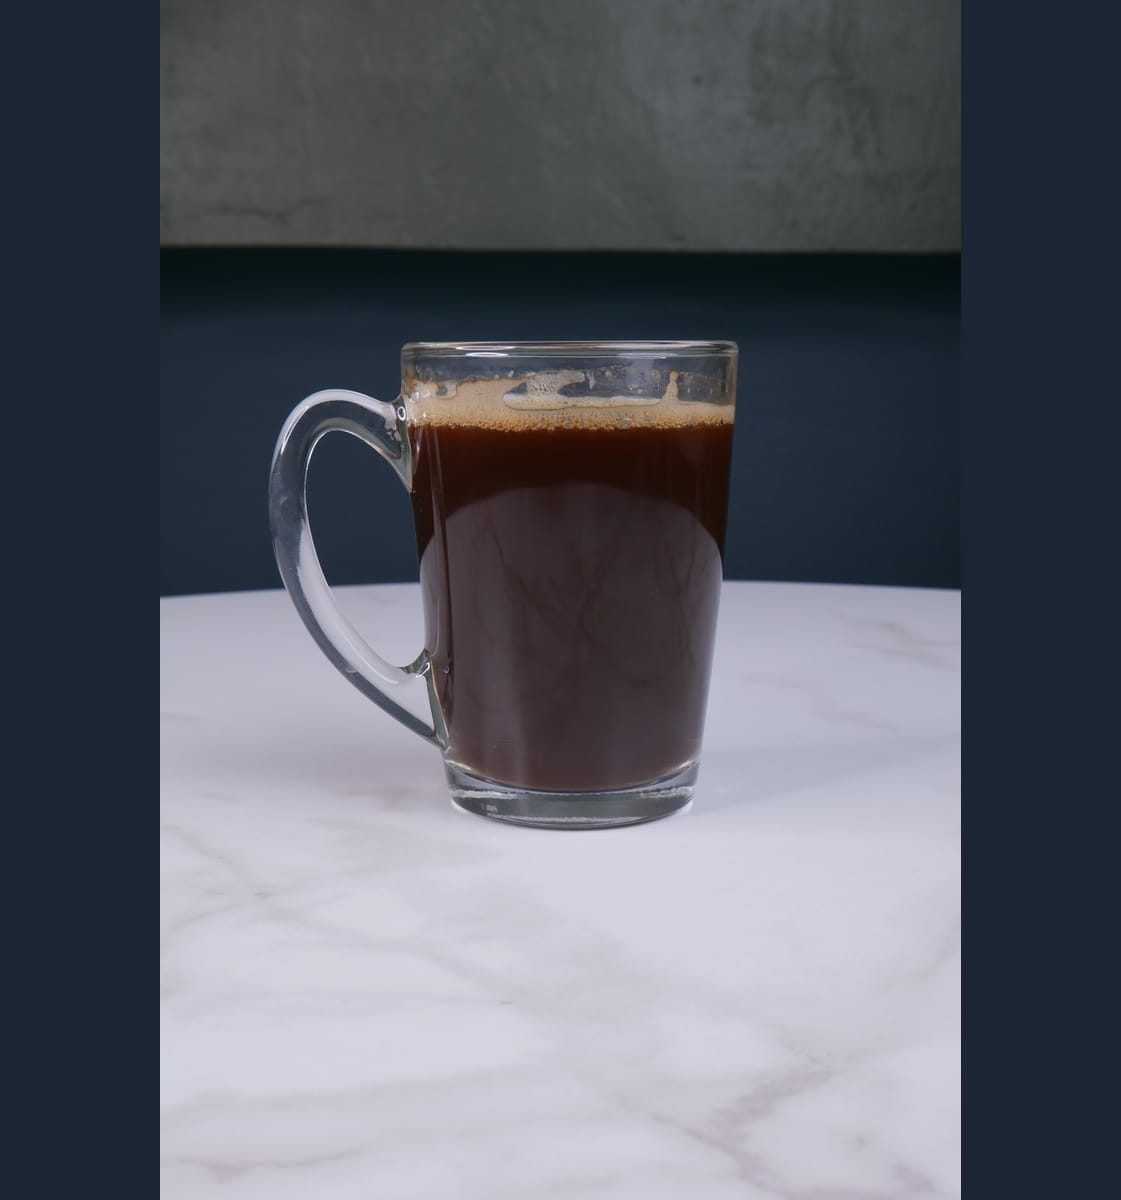
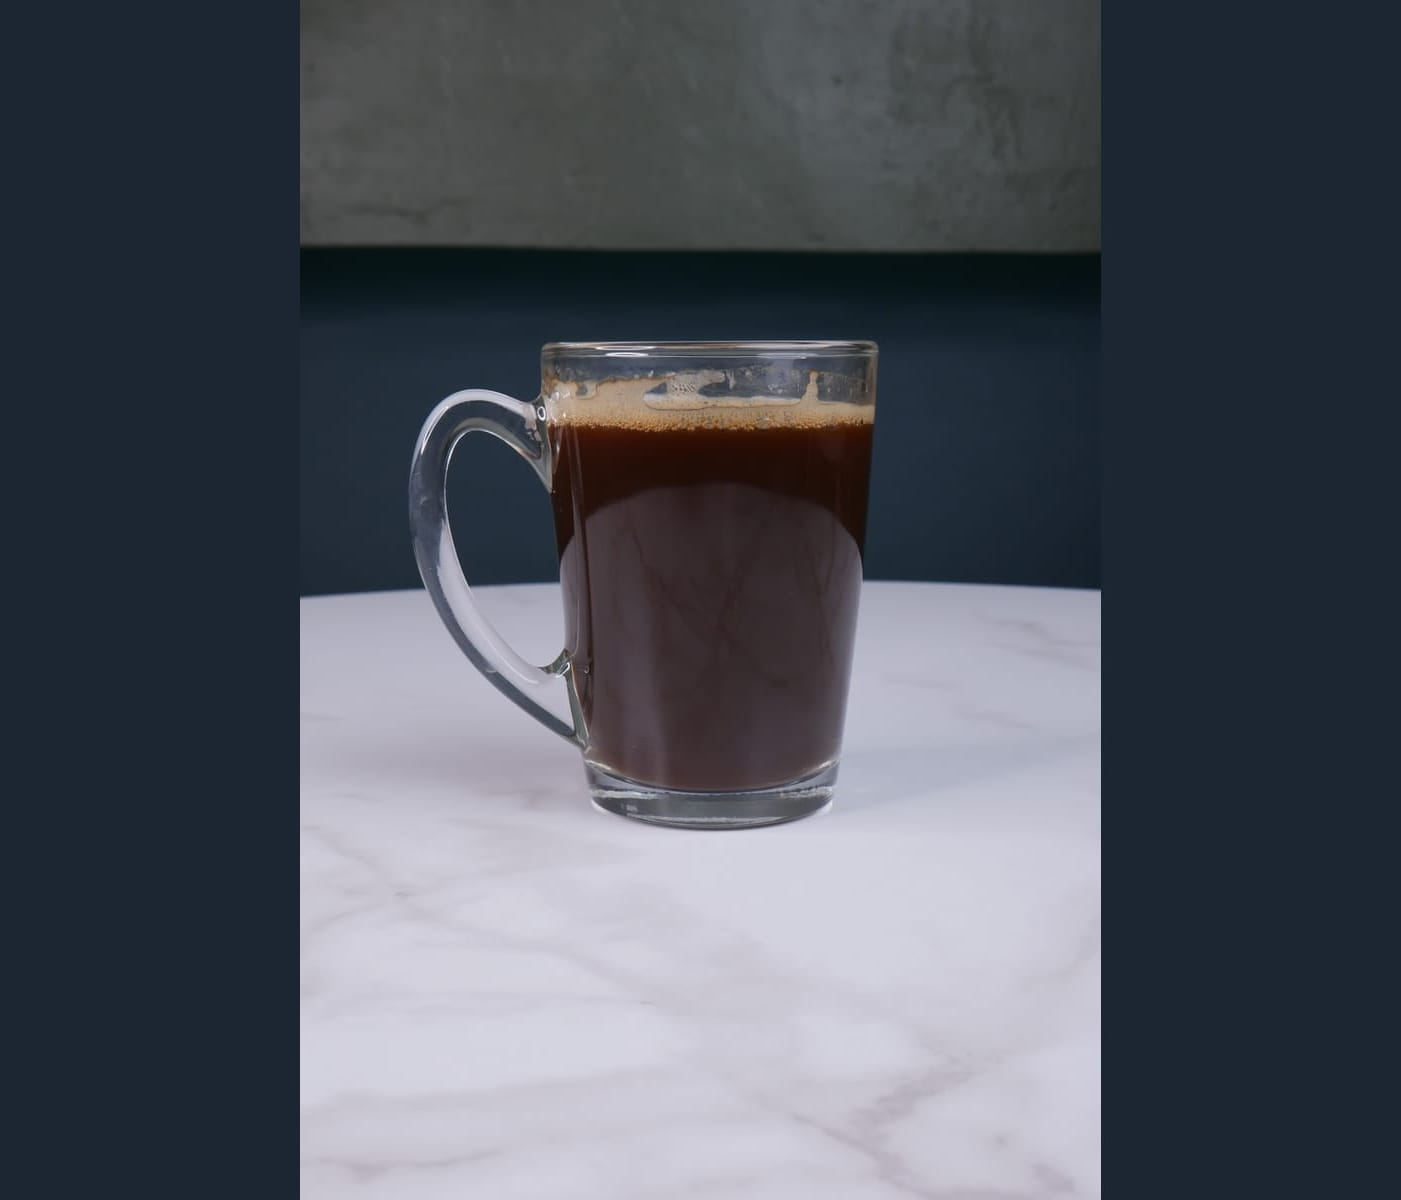
Reducir aun mas el zoom de Americano para igualar a Matcha
El primer ajuste no era suficiente: la taza seguia ocupando ~57% del
ancho del marco (medido con precision, no a ojo). Se amplia el
lienzo otros 140px por lado (total 300px por lado desde el original)
para que la proporcion de la taza dentro del marco coincida con la
de Matcha.

Changed region(s): [[0.1249, 0.2775, 0.8742, 1.0], [0.1249, 0.0, 0.2186, 0.2467], [0.7806, 0.0, 0.8742, 0.2467]]

diff --git a/index.html b/index.html
@@ -2081,7 +2081,7 @@
           </div>
         </div>
         <div class="menu-card rv" data-d="3">
-          <div class="menu-card-photo"><picture><source srcset="assets/americano.webp" type="image/webp"><img src="assets/americano.jpg" alt="Americano" loading="lazy" width="1121" height="1200" style="object-position:50% 46%;"></picture></div>
+          <div class="menu-card-photo"><picture><source srcset="assets/americano.webp" type="image/webp"><img src="assets/americano.jpg" alt="Americano" loading="lazy" width="1401" height="1200" style="object-position:50% 44%;"></picture></div>
           <div class="menu-card-body">
             <div class="menu-card-name">Americano</div>
             <div class="menu-card-desc" data-en="Espresso with hot water. 16 oz." data-es="Espresso con agua caliente. 16 oz.">Espresso with hot water. 16 oz.</div>
